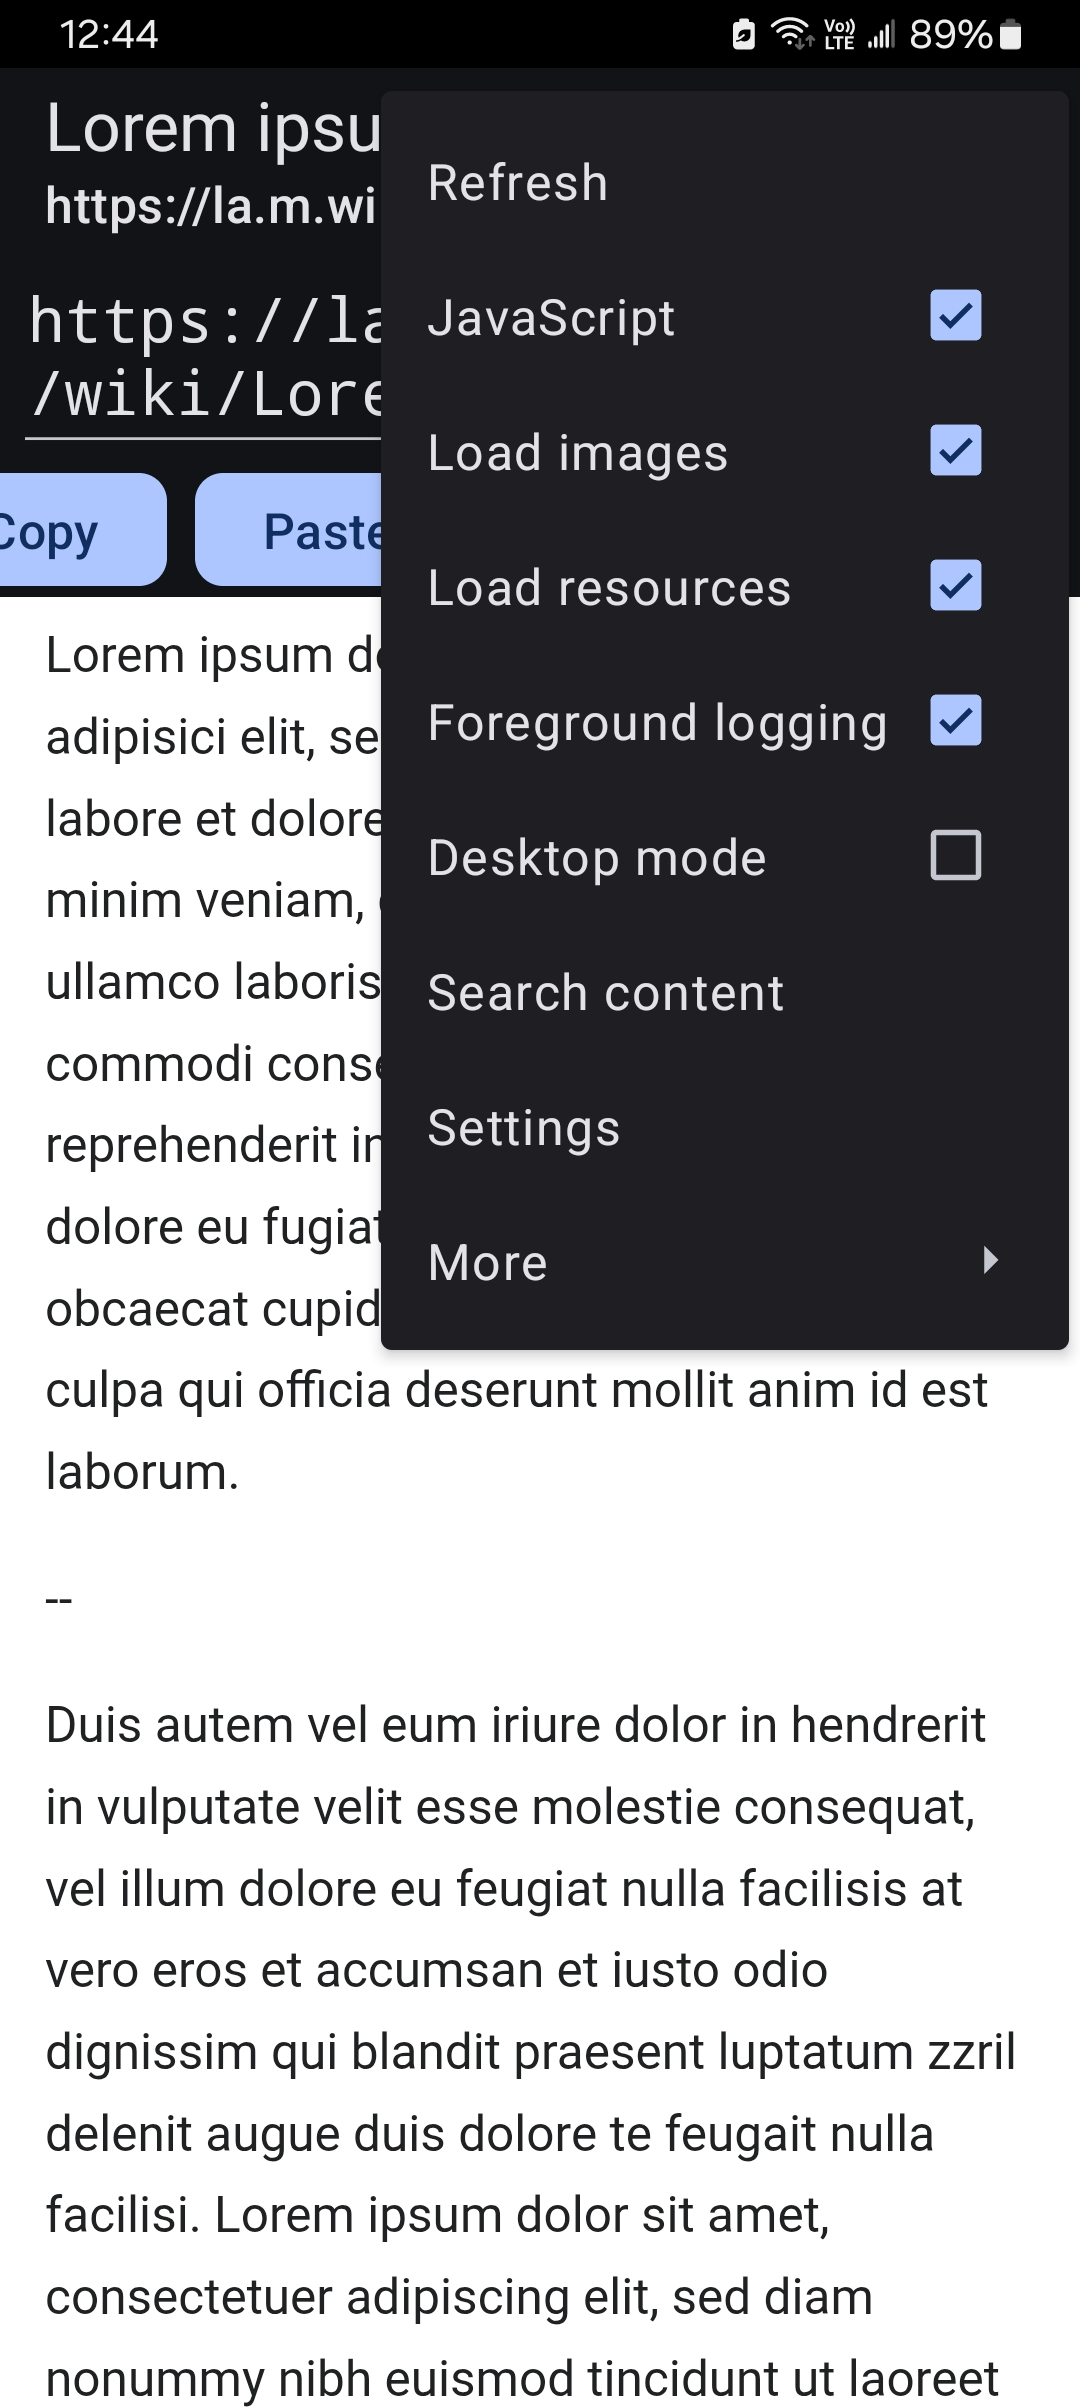
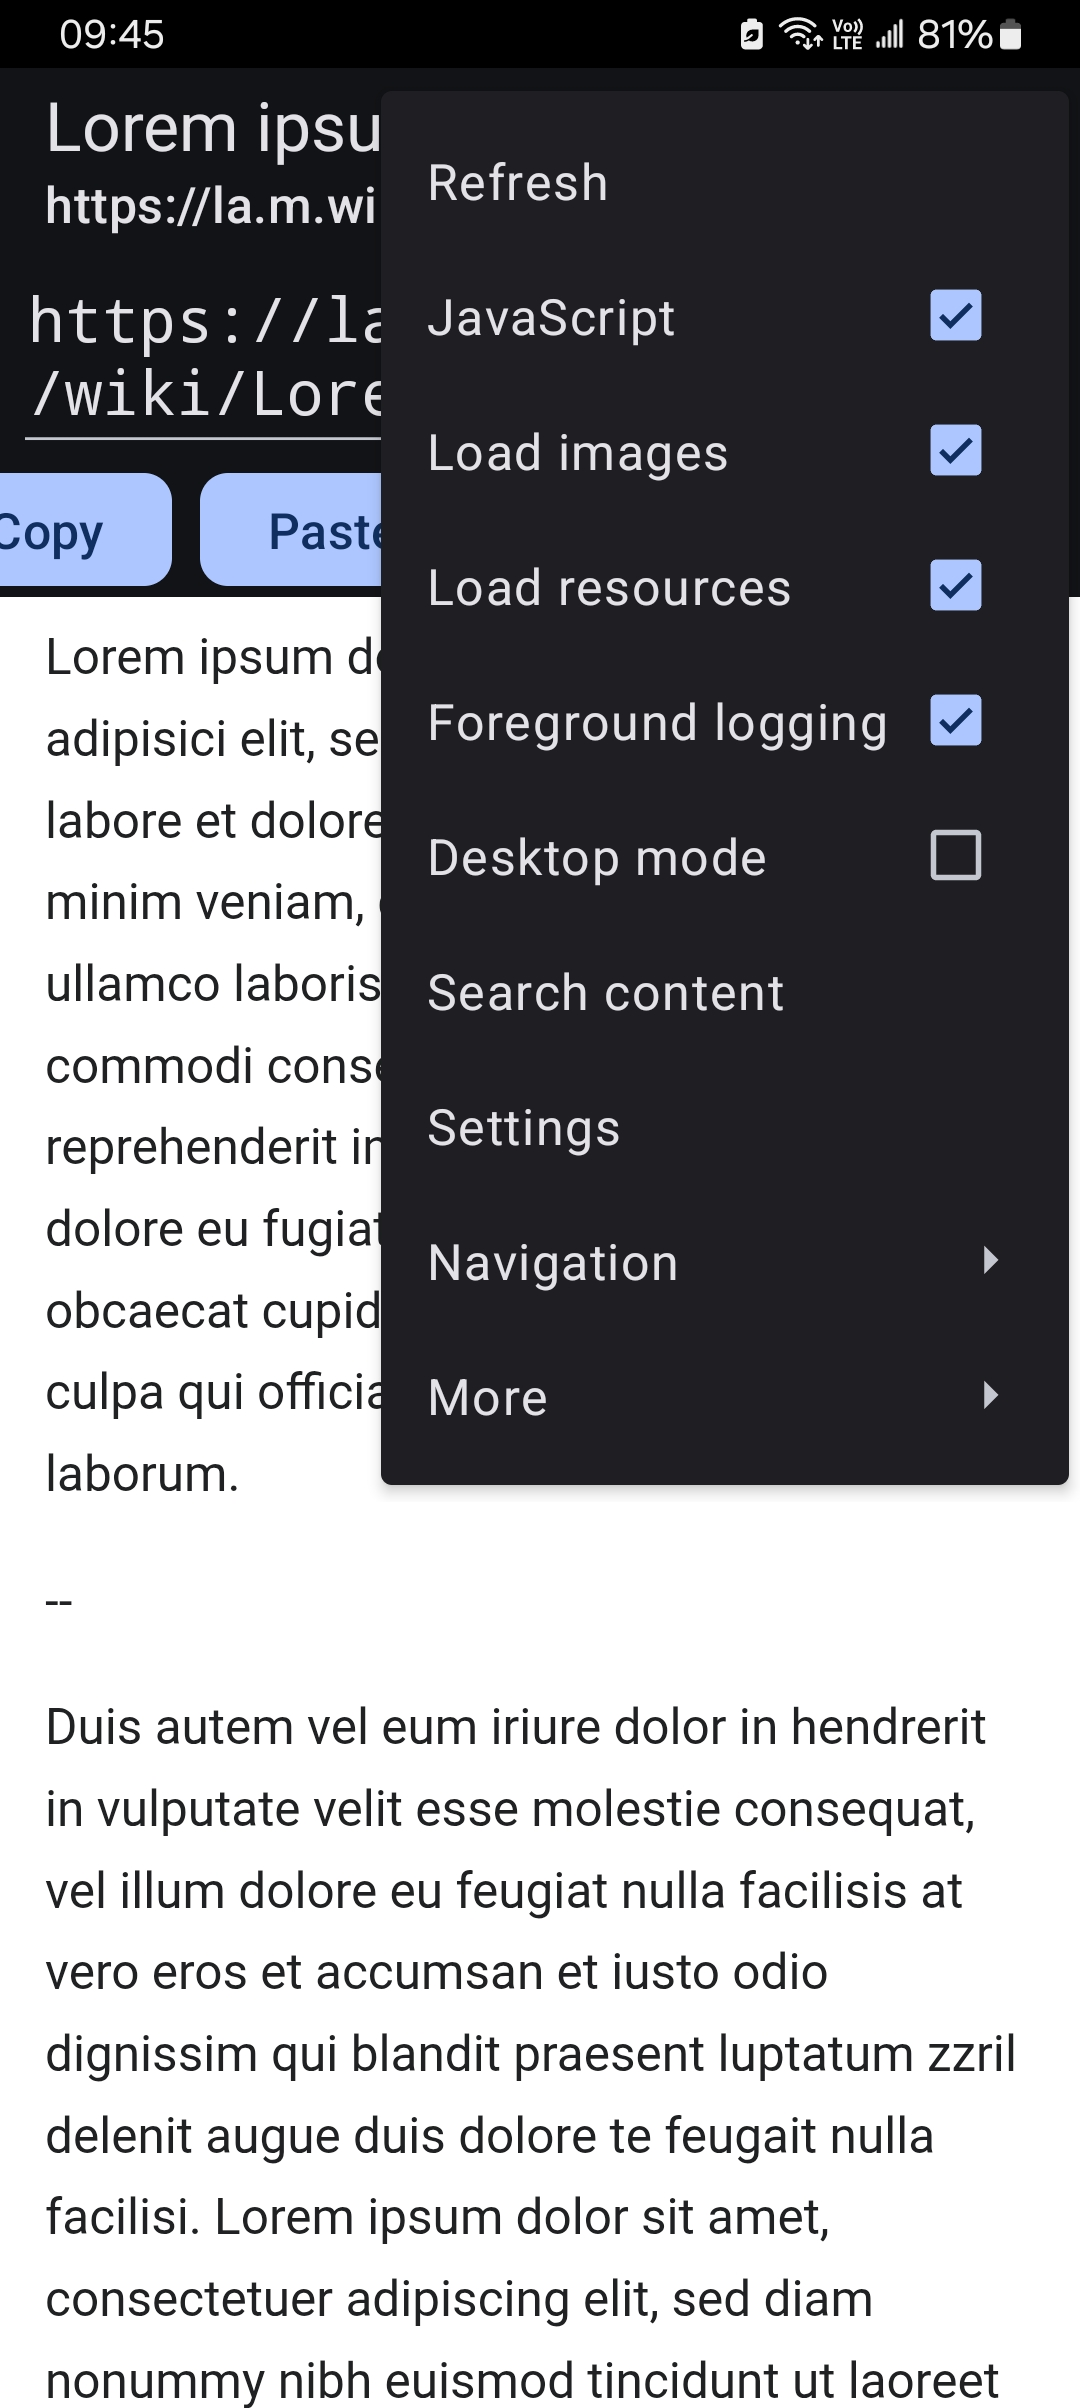
Bug fix; add more options to the menu

diff --git a/app/src/main/java/test/sls1005/projects/fundamentalbrowser/MainActivity.kt b/app/src/main/java/test/sls1005/projects/fundamentalbrowser/MainActivity.kt
@@ -341,8 +341,53 @@ open class MainActivity : ConfiguratedActivity() {
     private val longClickListener = View.OnLongClickListener { view ->
         when(view.id) {
             R.id.toolbar -> run {
-                if (currentURL.isNotEmpty()) {
-                    copyTextToClipboard(currentURL)
+                if (isShowingLog()) {
+                    (object: DialogFragment() {
+                        override fun onCreateDialog(savedInstanceState: Bundle?): Dialog {
+                            return (AlertDialog.Builder(requireActivity()).apply {
+                                setItems(
+                                    arrayOf(
+                                        getString(R.string.menu1_action_refresh_log),
+                                        getString(R.string.menu1_action_search_in_log),
+                                        getString(R.string.menu1_action_clear_log),
+                                        getString(R.string.menu1_action_close_log)
+                                    )
+                                ) { _, i ->
+                                    when (i) {
+                                        0 -> updateLogIfShowing()
+                                        1 -> showSearchBarForLog()
+                                        2 -> run {
+                                            synchronized(logMsgs) {
+                                                logMsgs.clear()
+                                            }
+                                            updateLogIfShowing()
+                                        }
+                                        3 -> hideLogIfShowing()
+                                        else -> Unit
+                                    }
+                                }
+                            }).create()
+                        }
+                    }).show(supportFragmentManager, null)
+                } else if (currentURL.isNotEmpty()) {
+                    (object: DialogFragment() {
+                        override fun onCreateDialog(savedInstanceState: Bundle?): Dialog {
+                            return (AlertDialog.Builder(requireActivity()).apply {
+                                setItems(
+                                    arrayOf(title.toString(), currentURL)) { _, i ->
+                                    when (i) {
+                                        0 -> run {
+                                            copyTextToClipboard(title.toString())
+                                        }
+                                        1 -> run {
+                                            copyTextToClipboard(currentURL)
+                                        }
+                                        else -> Unit
+                                    }
+                                }
+                            }).create()
+                        }
+                    }).show(supportFragmentManager, null)
                 }
             }
         }
@@ -900,6 +945,8 @@ open class MainActivity : ConfiguratedActivity() {
         val w = findViewById<WebView>(R.id.window)
         val hasLoadedPage = !hasNotLoadedAnyPage()
         val showingLog = isShowingLog()
+        val forwardPossible = w.canGoForward()
+        val backwardPossible = w.canGoBack()
         arrayOf(
             Pair(
                 R.id.action_enable_disable_js,
@@ -925,15 +972,6 @@ open class MainActivity : ConfiguratedActivity() {
             val (id, state) = it
             menu.findItem(id).setChecked(state)
         }
-        if (showAdvancedDeveloperTools) {
-            menu.findItem(R.id.action_simulate_disconnection).setTitle(
-                if (simulatingDisconnection) {
-                    getString(R.string.menu1_stop_simulating_disconnection)
-                } else {
-                    getString(R.string.menu1_action_simulate_disconnection)
-                }
-            )
-        }
         arrayOf(
             Pair(
                 R.id.group_url,
@@ -950,42 +988,88 @@ open class MainActivity : ConfiguratedActivity() {
             Pair(
                 R.id.group_search_log,
                 showingLog && logMsgs.isNotEmpty()
+            ),
+            Pair(
+                R.id.group_navigation,
+                forwardPossible || backwardPossible
             )
         ).forEach { it ->
             val (id, state) = it
             menu.setGroupVisible(id, state)
         }
-        menu.findItem(R.id.submenu1).subMenu.also { sub ->
-            if (sub != null) {
+        menu.findItem(R.id.action_refresh).title = getString(
+            if (hasLoadedPage && showingLog) {
+                R.string.menu1_action_reload_page
+            } else {
+                R.string.menu1_action_refresh
+            }
+        )
+        if (forwardPossible || backwardPossible) {
+            menu.findItem(R.id.menu1_submenu_navigation)?.subMenu?.also { sub ->
                 arrayOf(
                     Pair(
-                        R.id.menu1_sub1_group_page,
-                        hasLoadedPage
+                        R.id.menu1_submenu_navigation_group_backward,
+                        backwardPossible
                     ),
                     Pair(
-                        R.id.menu1_sub1_group_website,
-                        hasLoadedPage && (!checkUriScheme(Uri.parse(currentURL), arrayOf("data", "javascript", "intent", "android-app", "blob", "file", "content")))
-                    ),
-                    Pair(
-                        R.id.menu1_sub1_group_advanced_tools,
-                        showAdvancedDeveloperTools
-                    ),
-                    Pair(
-                        R.id.menu1_sub1_group_advanced_tools_website_only,
-                        showAdvancedDeveloperTools && hasLoadedPage && (!checkUriScheme(Uri.parse(currentURL), arrayOf("data", "javascript", "intent", "android-app", "blob", "file", "content")))
-                    ),
-                    Pair(
-                        R.id.menu1_sub1_group_copy_url,
-                        hasLoadedPage
-                    ),
-                    Pair(
-                        R.id.menu1_sub1_group_log,
-                        logMsgs.isNotEmpty()
+                        R.id.menu1_submenu_navigation_group_forward,
+                        forwardPossible
                     )
                 ).forEach { it ->
                     val (id, state) = it
                     sub.setGroupVisible(id, state)
                 }
+            }
+        }
+        menu.findItem(R.id.menu1_submenu_more)?.subMenu?.also { sub ->
+            arrayOf(
+                Pair(
+                    R.id.menu1_submenu_more_group_page,
+                    hasLoadedPage
+                ),
+                Pair(
+                    R.id.menu1_submenu_more_group_website,
+                    hasLoadedPage && (!checkUriScheme(Uri.parse(currentURL), arrayOf("data", "javascript", "intent", "android-app", "blob", "file", "content")))
+                ),
+                Pair(
+                    R.id.menu1_submenu_more_group_advanced_tools,
+                    showAdvancedDeveloperTools
+                ),
+                Pair(
+                    R.id.menu1_submenu_more_group_copy_url,
+                    hasLoadedPage
+                ),
+                Pair(
+                    R.id.menu1_submenu_more_group_advanced_tools_website_only,
+                    showAdvancedDeveloperTools && hasLoadedPage && (!checkUriScheme(Uri.parse(currentURL), arrayOf("data", "javascript", "intent", "android-app", "blob", "file", "content")))
+                ),
+                Pair(
+                    R.id.menu1_submenu_more_group_log,
+                    logMsgs.isNotEmpty()
+                ),
+                Pair(
+                    R.id.menu1_submenu_more_group_showing_log,
+                    showingLog
+                )
+            ).forEach { it ->
+                val (id, state) = it
+                sub.setGroupVisible(id, state)
+            }
+            sub.findItem(R.id.action_view_log).title = getString(
+                if (showingLog) {
+                    R.string.menu1_action_refresh_log
+                } else {
+                    R.string.menu1_action_view_log
+                }
+            )
+            if (showAdvancedDeveloperTools) {
+                sub.findItem(R.id.action_simulate_disconnection).setTitle(
+                    if (simulatingDisconnection) {
+                        getString(R.string.menu1_stop_simulating_disconnection)
+                    } else {
+                        getString(R.string.menu1_action_simulate_disconnection)
+                    }
+                )
             }
         }
         return true
@@ -1092,9 +1176,11 @@ open class MainActivity : ConfiguratedActivity() {
                 synchronized(logMsgs) {
                     logMsgs.clear()
                 }
-                if (isShowingLog()) {
-                    updateLogIfShowing()
-                }
+                updateLogIfShowing()
+                (true)
+            }
+            R.id.action_close_log -> run {
+                hideLogIfShowing()
                 (true)
             }
             R.id.action_new_window -> run {
@@ -1186,6 +1272,22 @@ open class MainActivity : ConfiguratedActivity() {
             R.id.action_simulate_disconnection -> run {
                 findViewById<WebView>(R.id.window).setNetworkAvailable(/* !! */ simulatingDisconnection)
                 simulatingDisconnection = !simulatingDisconnection
+                (true)
+            }
+            R.id.action_previous_page -> run {
+                findViewById<WebView>(R.id.window).apply {
+                    if (canGoBack()) {
+                        goBack()
+                    }
+                }
+                (true)
+            }
+            R.id.action_next_page -> run {
+                findViewById<WebView>(R.id.window).apply {
+                    if (canGoForward()) {
+                        goForward()
+                    }
+                }
                 (true)
             }
             R.id.action_load_html_code -> run {
@@ -1495,7 +1597,7 @@ open class MainActivity : ConfiguratedActivity() {
         return findViewById<RelativeLayout>(R.id.search_area).visibility == VISIBLE
     }
 
-    private fun showContentSearchBar() {
+    private inline fun showContentSearchBar() {
         allowsForegroundLogging.set(false)
         hideUrlBarIfShowing()
         supportActionBar?.hide()
@@ -1528,7 +1630,7 @@ open class MainActivity : ConfiguratedActivity() {
 
     }
 
-    private fun showSearchBarForLog() {
+    private inline fun showSearchBarForLog() {
         allowsForegroundLogging.set(false)
         hideUrlBarIfShowing()
         supportActionBar?.hide()
@@ -1554,7 +1656,7 @@ open class MainActivity : ConfiguratedActivity() {
         }
     }
 
-    private fun hideSearchBar() {
+    private inline fun hideSearchBar() {
         findViewById<EditText>(R.id.content_search_field).apply {
             setEnabled(false)
             text.clear()
@@ -1613,7 +1715,7 @@ open class MainActivity : ConfiguratedActivity() {
         }
     }
 
-    private fun hideRunButtonIfShowing() {
+    private inline fun hideRunButtonIfShowing() {
         findViewById<MaterialButton>(R.id.button_run).apply {
             if (visibility == VISIBLE) {
                 visibility = GONE

diff --git a/README.md b/README.md
@@ -72,6 +72,8 @@ A developer-friendly browser should: (A checked box means implemented or already
 
 To make the search button usable, the 'Search URL' must be set. The search button is not the same as the 'Load' button, which loads a page of a given URL but will not do search, while the search button will not load a URL but... search for it. Such strict distinguishment between tasks is supposed to be helpful to prevent accidental URL loading and to allow the user to search for a domain-name-like or URL-like string.
 
+As a desirable side effect, this browser will not automatically try to search for a URL when the scheme isn't HTTP/HTTPS, unless explicitly asked by the user (by clicking the "search" button). When you use the "load" button, you will either successfully load a URL or fail to load it (if the website does not exist or the scheme is forbidden), but not search for it (unless you confirm to do so). And you are generally allowed to directly load `data:` or `view-source:` URIs, as long as you write them correctly.
+
 #### Console and REPL
 
 To use the console and REPL features, input some code (should normally be JS code) in the URL field and then use the 'Run' button (enabled in settings) to execute it.
@@ -115,6 +117,8 @@ See <a href="#Details">details</a> for more information about this usage.
 * Intent scheme URIs are half-supported. That is to say, they will usually be processed correctly, and the instantiated intent may be launched if approved by the user; however, this app usually doesn't check if a URI is an `intent:` URI, except when trying to protect itself from intent-based attacks. (See <a href="#References">[1]</a>.) Instead, `intent:` URIs will be treated as if they were URIs of unrecognized schemes (such as `abc://`), for any of which this app will ask if it should launch an intent. Nonetheless, the app will not ask nor try to launch any intent if it detects that the intent would be sent back to the activity itself or to any other component of this application (for which case it might not create a log entry and can show an error message), so as to prevent the security issue mentioned in <a href="#References">[1]</a>. Despite being suggested in <a href="#References">[2]</a>, this app doesn't use `CATEGORY_BROWSABLE` to instantiate such intents, as it would still be insufficient according to <a href="#References">[1]</a> (and this app doesn't use the unsafe constant anyway). This application has its own security-related mechanism as mentioned above; basically, an `intent:` URI is forbidden if it would be sent back to this app; it is otherwise up to the user's explicit intention. If this mechanism is proved to still be insufficient, please open an issue to let me know.
 
 * By using some code that looks like `location.href="intent:#Intent;...;end"`, you can utilize this app as a generalized intent sender and activity launcher (by specifying `action`, `component`, etc. in the form of text; remember to use constants' values rather than their names). Unlike in <a href="#References">[1]</a>, you don't have to add `SEL` (which should have no effect anyway), as the rules mentioned above still apply: you can't use it to access any activity of this app; for other apps, only exported activities.
+
+* Currently, internet is the only required permission for this app. Optional permissions may be added in the future if and only if they would be required for accessing local network devices (but not required for now). The reason for not using more permissions is that this is merely a developer tool rather than a fully functional browser. But it can load custom pages, run custom programs and send intents, so it should be no more powerful at accessing the hardware and should be better sandboxed, or there might be a security issue.
 
 ### Projects that offer similar functionalities
 
